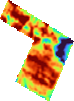
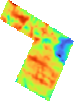
Add files via upload

diff --git a/layers/layers.js b/layers/layers.js
@@ -116,26 +116,52 @@ var lyr_NDVI_01082022_2_8 = new ol.layer.Image({
                                 imageExtent: [5811774.870242, 7510104.043154, 5812805.002219, 7511508.270150]
                             })
                         });
-var format_Final_Field_bound_9 = new ol.format.GeoJSON();
-var features_Final_Field_bound_9 = format_Final_Field_bound_9.readFeatures(json_Final_Field_bound_9, 
+var lyr_20220806S2_9 = new ol.layer.Image({
+                            opacity: 1,
+                            title: "2022-08-06 S2",
+                            
+                            
+                            source: new ol.source.ImageStatic({
+                               url: "./layers/20220806S2_9.png",
+    attributions: ' ',
+                                projection: 'EPSG:3857',
+                                alwaysInRange: true,
+                                imageExtent: [5811114.785616, 7509143.256952, 5813165.048256, 7512558.245499]
+                            })
+                        });
+var lyr_NDVI_06082022_S2_10 = new ol.layer.Image({
+                            opacity: 1,
+                            title: "NDVI_06082022_S2",
+                            
+                            
+                            source: new ol.source.ImageStatic({
+                               url: "./layers/NDVI_06082022_S2_10.png",
+    attributions: ' ',
+                                projection: 'EPSG:3857',
+                                alwaysInRange: true,
+                                imageExtent: [5811774.870242, 7510104.043154, 5812805.002219, 7511508.270150]
+                            })
+                        });
+var format_Final_Field_bound_11 = new ol.format.GeoJSON();
+var features_Final_Field_bound_11 = format_Final_Field_bound_11.readFeatures(json_Final_Field_bound_11, 
             {dataProjection: 'EPSG:4326', featureProjection: 'EPSG:3857'});
-var jsonSource_Final_Field_bound_9 = new ol.source.Vector({
+var jsonSource_Final_Field_bound_11 = new ol.source.Vector({
     attributions: ' ',
 });
-jsonSource_Final_Field_bound_9.addFeatures(features_Final_Field_bound_9);
-var lyr_Final_Field_bound_9 = new ol.layer.Vector({
+jsonSource_Final_Field_bound_11.addFeatures(features_Final_Field_bound_11);
+var lyr_Final_Field_bound_11 = new ol.layer.Vector({
                 declutter: true,
-                source:jsonSource_Final_Field_bound_9, 
-                style: style_Final_Field_bound_9,
+                source:jsonSource_Final_Field_bound_11, 
+                style: style_Final_Field_bound_11,
                 interactive: true,
-                title: '<img src="styles/legend/Final_Field_bound_9.png" /> Final_Field_bound'
+                title: '<img src="styles/legend/Final_Field_bound_11.png" /> Final_Field_bound'
             });
 
-lyr_OpenStreetMap_0.setVisible(true);lyr_20210709WV2_1.setVisible(true);lyr_20220428S2_2.setVisible(true);lyr_20220508S2_3.setVisible(true);lyr_20220526S2_4.setVisible(true);lyr_20220625S2_5.setVisible(true);lyr_20220727S2_6.setVisible(true);lyr_20220801S2_7.setVisible(true);lyr_NDVI_01082022_2_8.setVisible(true);lyr_Final_Field_bound_9.setVisible(true);
-var layersList = [lyr_OpenStreetMap_0,lyr_20210709WV2_1,lyr_20220428S2_2,lyr_20220508S2_3,lyr_20220526S2_4,lyr_20220625S2_5,lyr_20220727S2_6,lyr_20220801S2_7,lyr_NDVI_01082022_2_8,lyr_Final_Field_bound_9];
-lyr_Final_Field_bound_9.set('fieldAliases', {'id': 'id', 'Area': 'Area', 'area_1': 'area_1', 'Площа': 'Площа', });
-lyr_Final_Field_bound_9.set('fieldImages', {'id': 'TextEdit', 'Area': '', 'area_1': '', 'Площа': '', });
-lyr_Final_Field_bound_9.set('fieldLabels', {'id': 'no label', 'Area': 'no label', 'area_1': 'no label', 'Площа': 'no label', });
-lyr_Final_Field_bound_9.on('precompose', function(evt) {
+lyr_OpenStreetMap_0.setVisible(true);lyr_20210709WV2_1.setVisible(true);lyr_20220428S2_2.setVisible(true);lyr_20220508S2_3.setVisible(true);lyr_20220526S2_4.setVisible(true);lyr_20220625S2_5.setVisible(true);lyr_20220727S2_6.setVisible(true);lyr_20220801S2_7.setVisible(true);lyr_NDVI_01082022_2_8.setVisible(true);lyr_20220806S2_9.setVisible(true);lyr_NDVI_06082022_S2_10.setVisible(true);lyr_Final_Field_bound_11.setVisible(true);
+var layersList = [lyr_OpenStreetMap_0,lyr_20210709WV2_1,lyr_20220428S2_2,lyr_20220508S2_3,lyr_20220526S2_4,lyr_20220625S2_5,lyr_20220727S2_6,lyr_20220801S2_7,lyr_NDVI_01082022_2_8,lyr_20220806S2_9,lyr_NDVI_06082022_S2_10,lyr_Final_Field_bound_11];
+lyr_Final_Field_bound_11.set('fieldAliases', {'id': 'id', 'Area': 'Area', 'area_1': 'area_1', 'Площа': 'Площа', });
+lyr_Final_Field_bound_11.set('fieldImages', {'id': 'TextEdit', 'Area': '', 'area_1': '', 'Площа': '', });
+lyr_Final_Field_bound_11.set('fieldLabels', {'id': 'no label', 'Area': 'no label', 'area_1': 'no label', 'Площа': 'inline label', });
+lyr_Final_Field_bound_11.on('precompose', function(evt) {
     evt.context.globalCompositeOperation = 'normal';
 });

diff --git a/styles/Final_Field_bound_11_style.js b/styles/Final_Field_bound_11_style.js
@@ -1,0 +1,31 @@
+var size = 0;
+var placement = 'point';
+
+var style_Final_Field_bound_11 = function(feature, resolution){
+    var context = {
+        feature: feature,
+        variables: {}
+    };
+    var value = ""
+    var labelText = "";
+    size = 0;
+    var labelFont = "10px, sans-serif";
+    var labelFill = "#000000";
+    var bufferColor = "";
+    var bufferWidth = 0;
+    var textAlign = "left";
+    var offsetX = 8;
+    var offsetY = 3;
+    var placement = 'point';
+    if ("" !== null) {
+        labelText = String("");
+    }
+    var style = [ new ol.style.Style({
+        stroke: new ol.style.Stroke({color: 'rgba(227,26,28,1.0)', lineDash: [10,5], lineCap: 'butt', lineJoin: 'miter', width: 1}),fill: new ol.style.Fill({color: 'rgba(255,158,23,0.0)'}),
+        text: createTextStyle(feature, resolution, labelText, labelFont,
+                              labelFill, placement, bufferColor,
+                              bufferWidth)
+    })];
+
+    return style;
+};

diff --git a/index.html b/index.html
@@ -44,7 +44,7 @@
         </style>
         <style>
         #map {
-            width: 1564px;
+            width: 1576px;
             height: 866px;
         }
         </style>
@@ -62,8 +62,8 @@
         <script src="./resources/functions.js"></script>
         <script src="./resources/ol.js"></script>
         <script src="./resources/ol-layerswitcher.js"></script>
-        <script src="layers/Final_Field_bound_9.js"></script>
-        <script src="styles/Final_Field_bound_9_style.js"></script>
+        <script src="layers/Final_Field_bound_11.js"></script>
+        <script src="styles/Final_Field_bound_11_style.js"></script>
         <script src="./layers/layers.js" type="text/javascript"></script> 
         <script src="./resources/Autolinker.min.js"></script>
         <script src="./resources/qgis2web.js"></script>

diff --git a/layers/Final_Field_bound_11.js b/layers/Final_Field_bound_11.js
@@ -1,0 +1,1 @@
+var json_Final_Field_bound_11 = {"type":"FeatureCollection","name":"Final_Field_bound_11","crs":{"type":"name","properties":{"name":"urn:ogc:def:crs:OGC:1.3:CRS84"}},"features":[{"type":"Feature","properties":{"id":"1","Area":null,"area_1":null,"Площа":null},"geometry":{"type":"MultiPolygon","coordinates":[[[[52.209083262722594,55.763687668977013],[52.217325824713811,55.760766801050735],[52.214208895840763,55.756498181098117],[52.209935541636113,55.757911451725334],[52.212349952216783,55.760818710904111],[52.207998392490005,55.762319660934587],[52.209083262722594,55.763687668977013]]]]}}]}

diff --git a/resources/qgis2web.js b/resources/qgis2web.js
@@ -37,7 +37,7 @@ layerSwitcher.hidePanel = function() {};
 layerSwitcher.showPanel();
 
 
-map.getView().fit([5809571.578199, 7509006.305351, 5815421.889935, 7512520.457595], map.getSize());
+map.getView().fit([5809735.780412, 7509043.165206, 5815629.348293, 7512560.208503], map.getSize());
 
 var NO_POPUP = 0
 var ALL_FIELDS = 1
